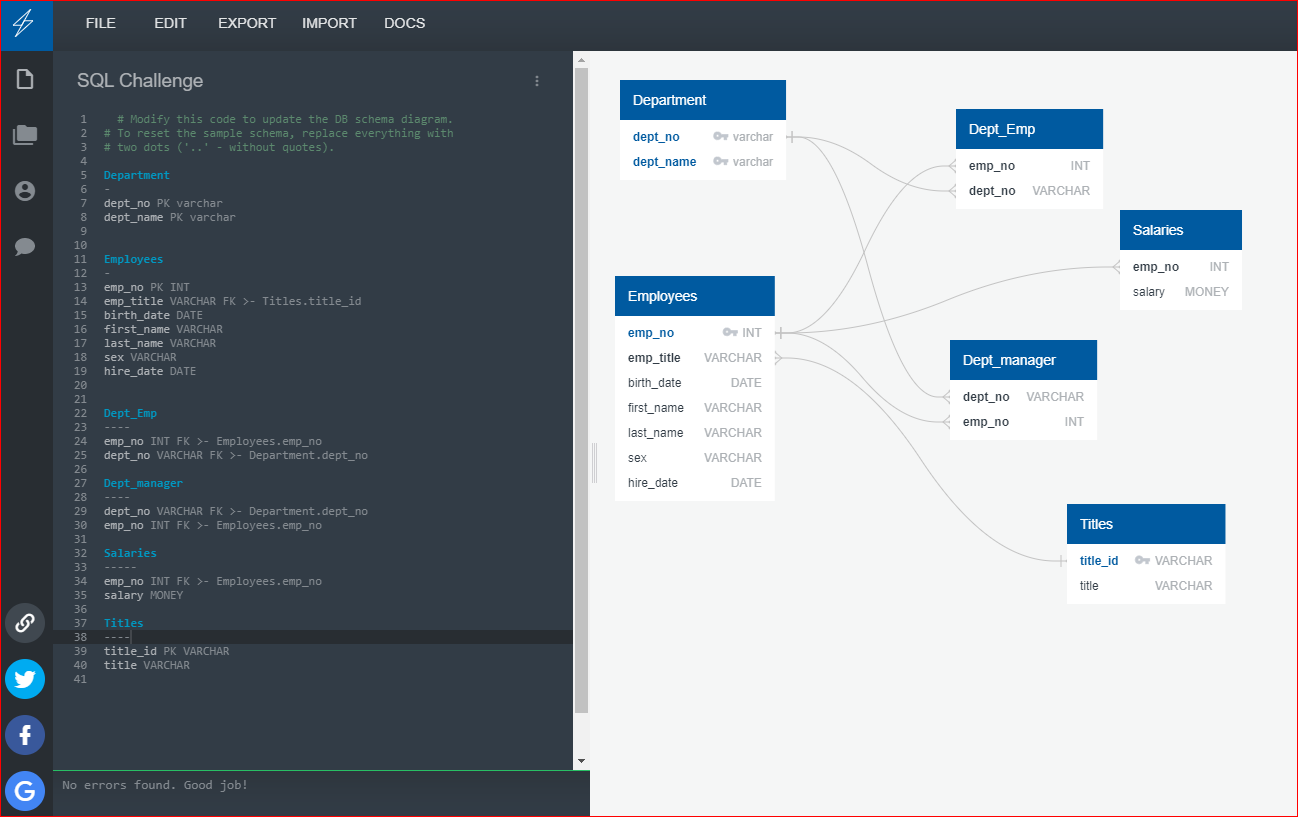
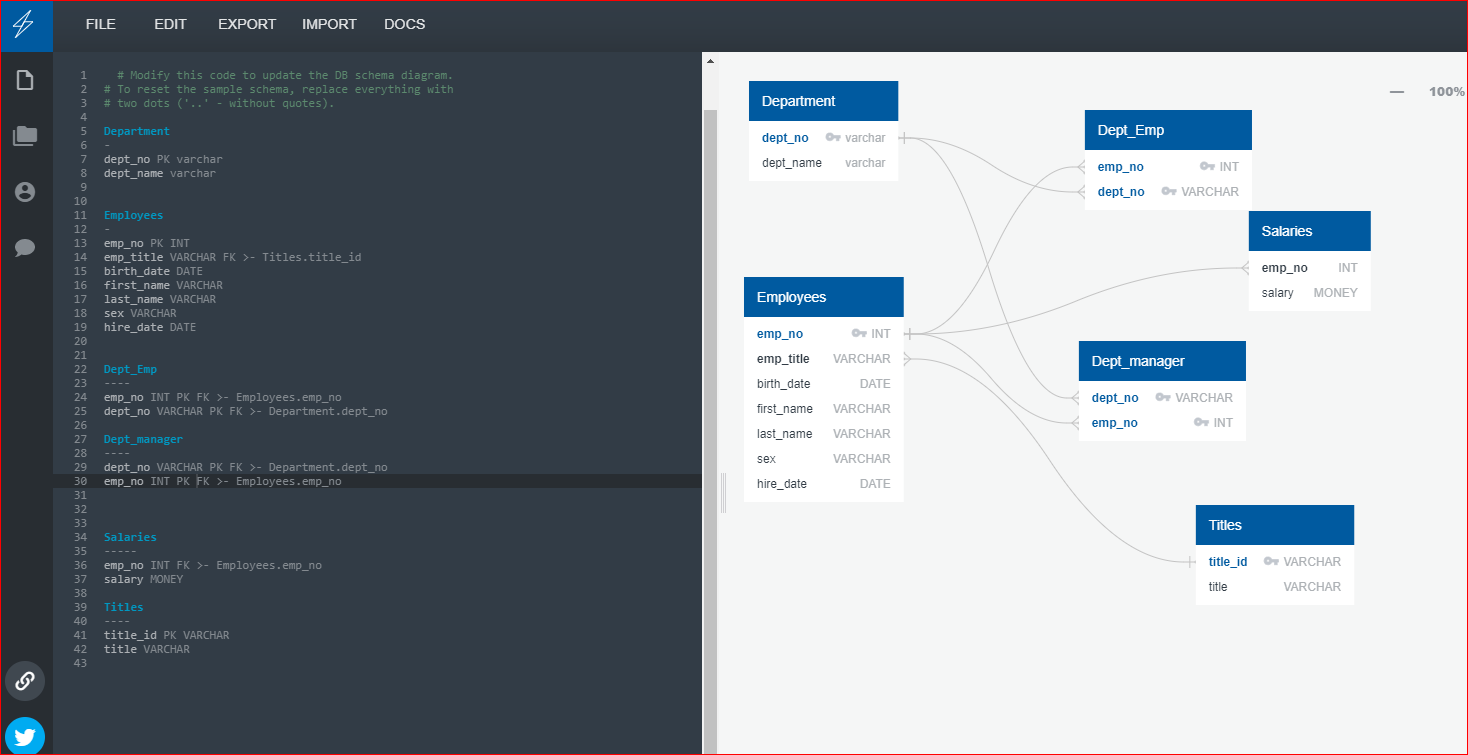
wip

diff --git a/README.md b/README.md
@@ -1,2 +1,104 @@
-# sql-challenge
-POSTgreSQL assignment
+# SQL Homework - Employee Database: A Mystery in Two Parts
+
+![sql.png](sql.png)
+
+## Background
+
+It is a beautiful spring day, and it is two weeks since you have been hired as a new data engineer at Pewlett Hackard. Your first major task is a research project on employees of the corporation from the 1980s and 1990s. All that remain of the database of employees from that period are six CSV files.
+
+In this assignment, you will design the tables to hold data in the CSVs, import the CSVs into a SQL database, and answer questions about the data. In other words, you will perform:
+
+1. Data Engineering
+
+3. Data Analysis
+
+Note: You may hear the term "Data Modeling" in place of "Data Engineering," but they are the same terms. Data Engineering is the more modern wording instead of Data Modeling.
+
+### Before You Begin
+
+1. Create a new repository for this project called `sql-challenge`. **Do not add this homework to an existing repository**.
+
+2. Clone the new repository to your computer.
+
+3. Inside your local git repository, create a directory for the SQL challenge. Use a folder name to correspond to the challenge: **EmployeeSQL**.
+
+4. Add your files to this folder.
+
+5. Push the above changes to GitHub.
+
+## Instructions
+
+#### Data Modeling
+
+Inspect the CSVs and sketch out an ERD of the tables. Feel free to use a tool like [http://www.quickdatabasediagrams.com](http://www.quickdatabasediagrams.com).
+
+#### Data Engineering
+
+* Use the information you have to create a table schema for each of the six CSV files. Remember to specify data types, primary keys, foreign keys, and other constraints.
+
+  * For the primary keys check to see if the column is unique, otherwise create a [composite key](https://en.wikipedia.org/wiki/Compound_key). Which takes to primary keys in order to uniquely identify a row.
+  * Be sure to create tables in the correct order to handle foreign keys.
+
+* Import each CSV file into the corresponding SQL table. **Note** be sure to import the data in the same order that the tables were created and account for the headers when importing to avoid errors.
+
+#### Data Analysis
+
+Once you have a complete database, do the following:
+
+1. List the following details of each employee: employee number, last name, first name, sex, and salary.
+
+2. List first name, last name, and hire date for employees who were hired in 1986.
+
+3. List the manager of each department with the following information: department number, department name, the manager's employee number, last name, first name.
+
+4. List the department of each employee with the following information: employee number, last name, first name, and department name.
+
+5. List first name, last name, and sex for employees whose first name is "Hercules" and last names begin with "B."
+
+6. List all employees in the Sales department, including their employee number, last name, first name, and department name.
+
+7. List all employees in the Sales and Development departments, including their employee number, last name, first name, and department name.
+
+8. In descending order, list the frequency count of employee last names, i.e., how many employees share each last name.
+
+## Bonus (Optional)
+
+As you examine the data, you are overcome with a creeping suspicion that the dataset is fake. You surmise that your boss handed you spurious data in order to test the data engineering skills of a new employee. To confirm your hunch, you decide to take the following steps to generate a visualization of the data, with which you will confront your boss:
+
+1. Import the SQL database into Pandas. (Yes, you could read the CSVs directly in Pandas, but you are, after all, trying to prove your technical mettle.) This step may require some research. Feel free to use the code below to get started. Be sure to make any necessary modifications for your username, password, host, port, and database name:
+
+   ```sql
+   from sqlalchemy import create_engine
+   engine = create_engine('postgresql://localhost:5432/<your_db_name>')
+   connection = engine.connect()
+   ```
+
+* Consult [SQLAlchemy documentation](https://docs.sqlalchemy.org/en/latest/core/engines.html#postgresql) for more information.
+
+* If using a password, do not upload your password to your GitHub repository. See [https://www.youtube.com/watch?v=2uaTPmNvH0I](https://www.youtube.com/watch?v=2uaTPmNvH0I) and [https://help.github.com/en/github/using-git/ignoring-files](https://help.github.com/en/github/using-git/ignoring-files) for more information.
+
+2. Create a histogram to visualize the most common salary ranges for employees.
+
+3. Create a bar chart of average salary by title.
+
+## Epilogue
+
+Evidence in hand, you march into your boss's office and present the visualization. With a sly grin, your boss thanks you for your work. On your way out of the office, you hear the words, "Search your ID number." You look down at your badge to see that your employee ID number is 499942.
+
+## Submission
+
+* Create an image file of your ERD.
+
+* Create a `.sql` file of your table schemata.
+
+* Create a `.sql` file of your queries.
+
+* (Optional) Create a Jupyter Notebook of the bonus analysis.
+
+* Create and upload a repository with the above files to GitHub and post a link on BootCamp Spot.
+
+* Ensure your repository has regular commits (i.e. 20+ commits) and a thorough README.md file
+
+### Copyright
+
+Trilogy Education Services © 2019. All Rights Reserved.
